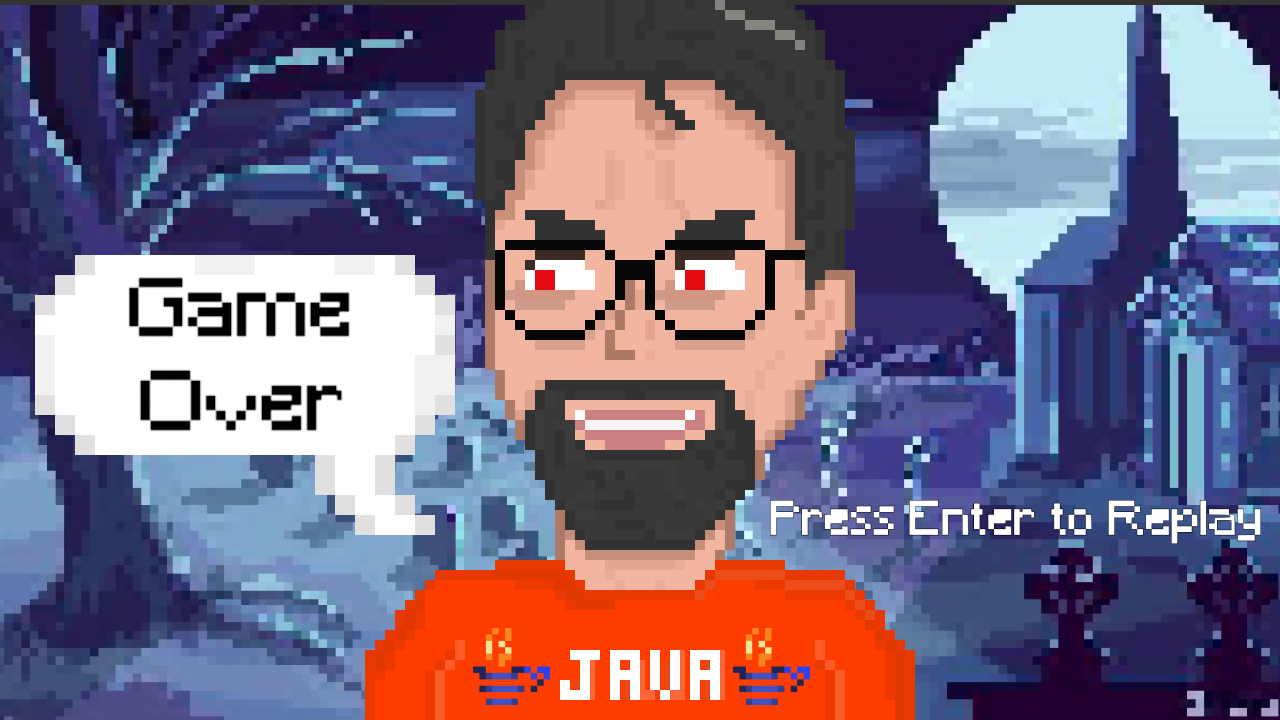
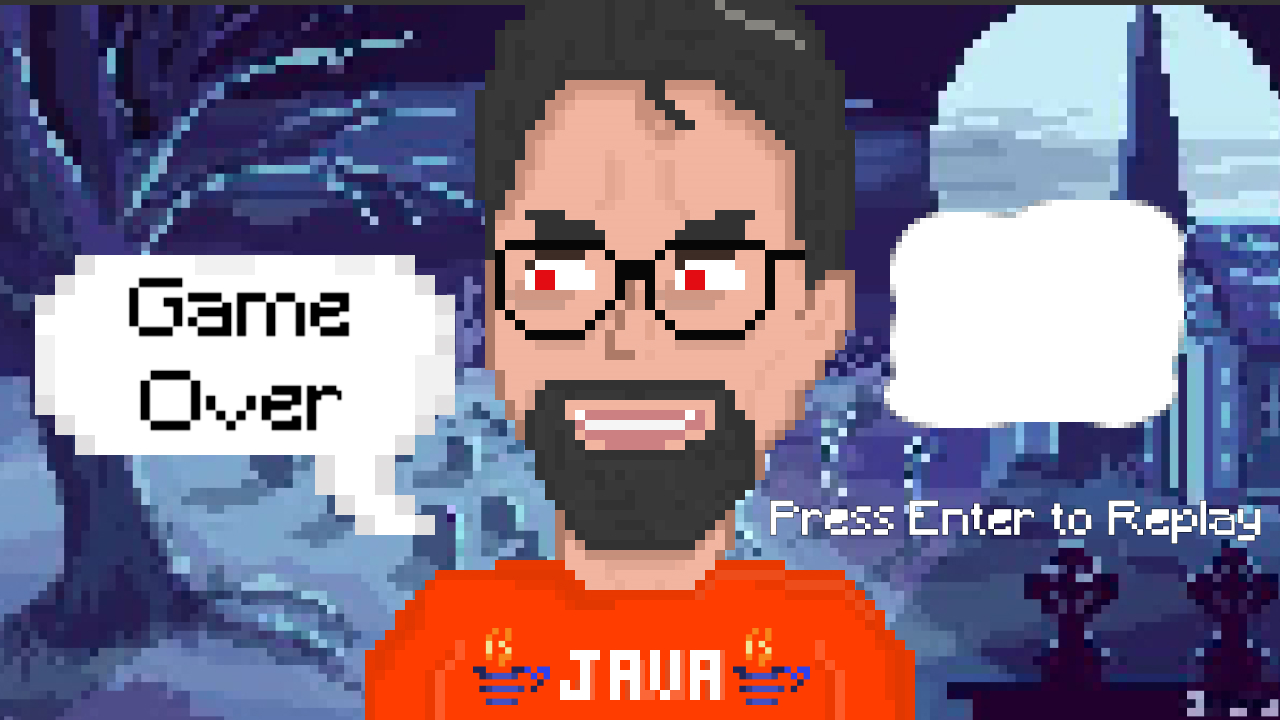
adding score on gameover screen

Changed region(s): [[0.6875, 0.275, 0.9375, 0.6111]]

diff --git a/JudsonRun/GameOver.cpp b/JudsonRun/GameOver.cpp
@@ -1,13 +1,25 @@
 #include "GameOver.h"
 
+string GameOver::score = "";
+
 void GameOver::Init()
 {
     bg = new Sprite("Resources/GameOver.png");
+    scoreimg = new Sprite("Resources/score.png");
+    tileset = new TileSet("Resources/numbers.png", 24, 32, 5, 10);
+    anim = new Animation*[score.length()];
+
+    for (uint i = 0; i < score.length(); i++)
+    {
+        anim[i] = new Animation(tileset, 0.0f, false);
+    }
 }
 
 void GameOver::Finalize()
 {
     delete bg;
+    delete tileset;
+    delete[] anim;
 }
 
 void GameOver::Update()
@@ -19,4 +31,7 @@ void GameOver::Update()
 void GameOver::Draw()
 {
     bg->Draw(window->CenterX(), window->CenterY(), Layer::BACK);
+    scoreimg->Draw(window->Width() * 0.81f, window->CenterY() - 80.0f);
+    for (int i = 0; i < score.length(); ++i)
+        anim[i]->Draw(score.at(i) - '0', window->Width() * 0.79f + (24.0f * i), window->CenterY() - 40.0f, Layer::FRONT);
 }

diff --git a/JudsonRun/GameOver.h b/JudsonRun/GameOver.h
@@ -10,8 +10,12 @@ class GameOver : public Game
 {
   private:
     Sprite *bg = nullptr;
+    Sprite* scoreimg = nullptr;
+    TileSet* tileset = nullptr;
+    Animation** anim = nullptr;
 
   public:
+    static string score;
     void Init();
     void Update();
     void Draw();

diff --git a/JudsonRun/JudsonRun.cpp b/JudsonRun/JudsonRun.cpp
@@ -30,8 +30,10 @@ void JudsonRun::Init()
 
 void JudsonRun::Update()
 {
-    if (gameover)
+    if (gameover) {
+        GameOver::score = to_string(panel->Score());
         return Engine::Next<GameOver>();
+    }
 
     if (window->KeyDown(VK_ESCAPE))
         window->Close();

diff --git a/JudsonRun/Panel.cpp b/JudsonRun/Panel.cpp
@@ -11,11 +11,16 @@ Panel::Panel()
     };
 }
 
+
 Panel::~Panel()
 {
     delete[] anim;
     delete numbers;
     delete background;
+}
+
+uint Panel::Score() {
+    return score;
 }
 
 void Panel::Update()

diff --git a/JudsonRun/Panel.h b/JudsonRun/Panel.h
@@ -27,6 +27,7 @@ class Panel : public Object
     ~Panel();
 
     void AddScore(uint s);
+    uint Score();
 
     void Update();
     void Draw();
